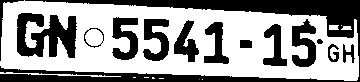
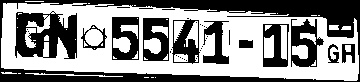
changed extract

diff --git a/test3.py b/test3.py
@@ -10,8 +10,8 @@ import os
 # img = cv2.imread('images/test_001.jpg', 0)
 # img1 = cv2.imread('images/test_001.jpg')
 
-img = cv2.imread('images/bogart.JPG', 0)
-img1 = cv2.imread('images/bogart.JPG')
+img = cv2.imread('images/prince.JPG', 0)
+img1 = cv2.imread('images/prince.JPG')
 
 res = cv2.resize(img,None,fx=.2, fy=.2, interpolation = cv2.INTER_CUBIC)
 
@@ -62,24 +62,24 @@ areas = [cv2.contourArea(c) for c in contours]
 max_index = np.argmax(areas)
 cnt=contours[max_index]
 
-rect = cv2.minAreaRect(cnt)
-box = cv2.cv.BoxPoints(rect)
-box = np.int0(box)
-cv2.drawContours(img1,[box],0,(0,0,255),2)
-cv2.drawContours(img1,contours,0,(0,0,255),1)
+for cnt in contours:
+    rect = cv2.minAreaRect(cnt)
+    box = cv2.cv.BoxPoints(rect)
+    box = np.int0(box)
+    cv2.drawContours(img,[box],0,(0,0,255),2)
+    cv2.drawContours(img,contours,0,(0,0,255),1)
 
 
+    x,y,w,h = cv2.boundingRect(cnt)
+    cv2.rectangle(img,(x,y),(x+w,y+h),(0,255,0),2)
 
-x,y,w,h = cv2.boundingRect(cnt)
-cv2.rectangle(img,(x,y),(x+w,y+h),(0,255,0),2)
-# cv2.imshow("Show",img1)
+# cv2.imshow("Show",img)
 # cv2.waitKey()
 
-plt.subplot(111),plt.imshow(img1)
+plt.subplot(111),plt.imshow(img)
 plt.title('Detected Image'), plt.xticks([]), plt.yticks([])
 
 plt.show()
-
 
 cropped_img = img[y:y+h, x:x+w]
 # gray_image = cv2.cvtColor(cropped_img, cv2.COLOR_BGR2GRAY)
@@ -92,8 +92,6 @@ ret,cropped_thresh = cv2.threshold(cropped_img, 127,255,cv2.THRESH_BINARY+cv2.TH
 # cropped_thresh = cv2.adaptiveThreshold(cropped_img,255,cv2.ADAPTIVE_THRESH_GAUSSIAN_C,\
 #             cv2.THRESH_BINARY,11,2)
 
-#
-
 # kernel = np.ones((2,2),np.float32)/4
 # cropped_thresh = cv2.filter2D(cropped_thresh,-1,kernel)
 
@@ -105,46 +103,48 @@ cv2.pyrUp(cropped_thresh)
 # cv2.imshow("cropped2", cropped_thresh)
 # cv2.waitKey(0)
 
-plt.subplot(111),plt.imshow(cropped_thresh)
+plt.subplot(111),plt.imshow(cropped_thresh, cmap = 'gray')
 plt.title('Cropped Image'), plt.xticks([]), plt.yticks([])
 
 plt.show()
 
-SZ=20000
-affine_flags = cv2.WARP_INVERSE_MAP|cv2.INTER_LINEAR
+edges2 = cv2.Canny(cropped_thresh,100,200)
+
+contours2, hierarchy2 = cv2.findContours(edges2,cv2.RETR_TREE,cv2.CHAIN_APPROX_SIMPLE)
 
 
-# cells = [np.hsplit(row,100) for row in np.vsplit(cropped_thresh,50)]
-#
-# # First half is trainData, remaining is testData
-# train_cells = [ i[:50] for i in cells ]
-# test_cells = [ i[50:] for i in cells]
+# Find the index of the largest contour
+areas = [cv2.contourArea(c) for c in contours2]
+max_index = np.argmax(areas)
+cnt3=contours2[max_index]
+
+rect3 = cv2.minAreaRect(cnt3)
+box3 = cv2.cv.BoxPoints(rect3)
+box3 = np.int0(box)
+cv2.drawContours(cropped_thresh,[box3],0,(0,255,255),2)
+cv2.drawContours(cropped_thresh,contours2,0,(0,255,255),1)
 
 
+x2,y2,w2,h2 = cv2.boundingRect(cnt3)
+cv2.rectangle(cropped_thresh,(x2,y2),(x2+w2,y2+h2),(0,255,0),2)
 
-def deskew(input_img):
-    m = cv2.moments(input_img)
-    if abs(m['mu02']) < 1e-2:
-        return input_img.copy()
-    skew = m['mu11']/m['mu02']
-    M = np.float32([[1, skew, -0.5*SZ*skew], [0, 1, 0]])
-    img = cv2.warpAffine(input_img,M,(SZ, SZ),flags=affine_flags)
-    return img
-
-
-# deskewed = [map(deskew,row) for row in train_cells]
-
-# deskewed = deskew(cropped_thresh);
-#
-# cv2.imshow("deskewed", deskewed)
+for cnt4 in contours2:
+    rect4 = cv2.minAreaRect(cnt4)
+    box4 = cv2.cv.BoxPoints(rect4)
+    box4 = np.int0(box4)
+    cv2.drawContours(cropped_thresh,[box4],0,(0,255,255),2)
 
 
-plt.subplot(111),plt.imshow(cropped_thresh)
-plt.title('Cropped Image'), plt.xticks([]), plt.yticks([])
+    x3,y3,w3,h3 = cv2.boundingRect(cnt4)
+    cv2.rectangle(cropped_thresh,(x3,y3),(x3+w3,y3+h3),(0,255,255),2)
+
+plt.subplot(111),plt.imshow(cropped_thresh, cmap = 'gray')
+plt.title('Edge Image'), plt.xticks([]), plt.yticks([])
 
 plt.show()
 
 res = cv2.resize(cropped_thresh,None,fx=.2, fy=.2, interpolation = cv2.INTER_CUBIC)
+
 
 cv2.imwrite('images/plate_test1.jpg',res)
 # cv2.imwrite('images/plate_test1.jpg',thresh1)
@@ -152,7 +152,7 @@ os.system('tesseract images/plate_test1.jpg out2 nobatch digits_and_letters')
 
 
 img2 = Image.open('images/plate_test1.jpg')
-img2.save("images/plate_test2.jpg", dpi=(3000,3000))
+img2.save("images/plate_test2.jpg", ppi=(3000,3000))
 
 os.system('tesseract images/plate_test2.jpg out3')
 

diff --git a/transform.py b/transform.py
@@ -1,0 +1,68 @@
+__author__ = 'StreetHustling'
+
+
+# import the necessary packages
+import numpy as np
+import cv2
+
+def order_points(pts):
+	# initialzie a list of coordinates that will be ordered
+	# such that the first entry in the list is the top-left,
+	# the second entry is the top-right, the third is the
+	# bottom-right, and the fourth is the bottom-left
+	rect = np.zeros((4, 2), dtype = "float32")
+
+	# the top-left point will have the smallest sum, whereas
+	# the bottom-right point will have the largest sum
+	s = pts.sum(axis = 1)
+	rect[0] = pts[np.argmin(s)]
+	rect[2] = pts[np.argmax(s)]
+
+	# now, compute the difference between the points, the
+	# top-right point will have the smallest difference,
+	# whereas the bottom-left will have the largest difference
+	diff = np.diff(pts, axis = 1)
+	rect[1] = pts[np.argmin(diff)]
+	rect[3] = pts[np.argmax(diff)]
+
+	# return the ordered coordinates
+	return rect
+
+
+def four_point_transform(image, pts):
+	# obtain a consistent order of the points and unpack them
+	# individually
+	rect = order_points(pts)
+	(tl, tr, br, bl) = rect
+
+	# compute the width of the new image, which will be the
+	# maximum distance between bottom-right and bottom-left
+	# x-coordiates or the top-right and top-left x-coordinates
+	widthA = np.sqrt(((br[0] - bl[0]) ** 2) + ((br[1] - bl[1]) ** 2))
+	widthB = np.sqrt(((tr[0] - tl[0]) ** 2) + ((tr[1] - tl[1]) ** 2))
+	maxWidth = max(int(widthA), int(widthB))
+
+	# compute the height of the new image, which will be the
+	# maximum distance between the top-right and bottom-right
+	# y-coordinates or the top-left and bottom-left y-coordinates
+	heightA = np.sqrt(((tr[0] - br[0]) ** 2) + ((tr[1] - br[1]) ** 2))
+	heightB = np.sqrt(((tl[0] - bl[0]) ** 2) + ((tl[1] - bl[1]) ** 2))
+	maxHeight = max(int(heightA), int(heightB))
+
+	# now that we have the dimensions of the new image, construct
+	# the set of destination points to obtain a "birds eye view",
+	# (i.e. top-down view) of the image, again specifying points
+	# in the top-left, top-right, bottom-right, and bottom-left
+	# order
+	dst = np.array([
+		[0, 0],
+		[maxWidth - 1, 0],
+		[maxWidth - 1, maxHeight - 1],
+		[0, maxHeight - 1]], dtype = "float32")
+
+	# compute the perspective transform matrix and then apply it
+	M = cv2.getPerspectiveTransform(rect, dst)
+	warped = cv2.warpPerspective(image, M, (maxWidth, maxHeight))
+
+	# return the warped image
+	return warped

diff --git a/haars_training.py b/haars_training.py
@@ -1,0 +1,26 @@
+__author__ = 'StreetHustling'
+
+import urllib
+import cv2
+import numpy
+import os
+
+def store_raw_images():
+    neg_images_link = 'http://image-net.org/api/text/imagenet.synset.geturls?wnid=n00523513'
+    neg_image_urls = urllib.urlopen(neg_images_link).read().decode()
+
+    if os.path.exists('neg'):
+        os.makedirs('neg')
+
+    pic_num = 1
+
+    for i in neg_image_urls.split('\n'):
+        try:
+            print(i)
+            urllib.urlretrieve(i, "neg/"+str(pic_num)+'.jpg')
+            cv2.imread("neg/"+str(pic_num)+'.jpg')
+
+        except Exception as e:
+            print(str(e))
+
+

diff --git a/test5.py b/test5.py
@@ -1,0 +1,31 @@
+__author__ = 'StreetHustling'
+
+
+from PIL import Image
+import pytesseract
+import numpy as np
+import cv2
+from matplotlib import pyplot as plt
+import os
+
+
+img = cv2.imread('images/bogart.JPG', 0)
+
+surf = cv2.SURF(400)
+
+kp, des = surf.detectAndCompute(img, None)
+
+print(len(kp))
+
+print surf.hessianThreshold
+
+surf.hessianThreshold = 10000
+
+kp, des = surf.detectAndCompute(img, None)
+
+print(len(kp))
+
+
+img2 = cv2.drawKeypoints(img,kp,None,(255,0,0),4)
+
+plt.imshow(img2),plt.show()

diff --git a/extract.py b/extract.py
@@ -188,7 +188,7 @@ def include_box(index, h_, contour):
 # Load the image
 # orig_img = cv2.imread(input_file)
 
-orig_img = cv2.imread('images/md.jpg')
+orig_img = cv2.imread('images/test6.jpg')
 
 # Add a border to the image for processing sake
 img = cv2.copyMakeBorder(orig_img, 50, 50, 50, 50, cv2.BORDER_CONSTANT)
